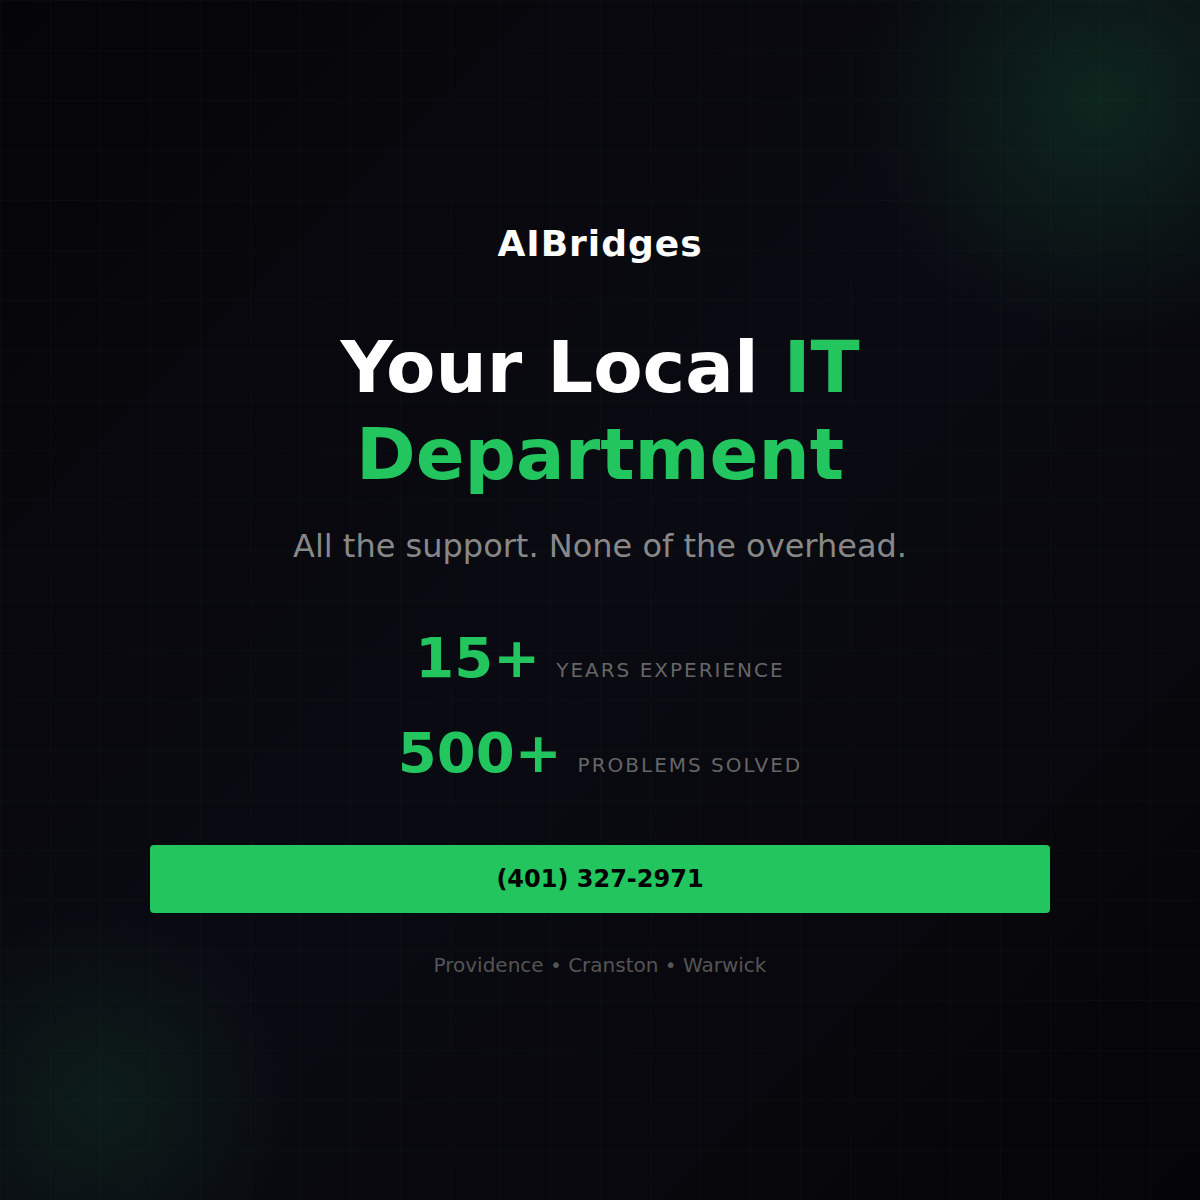
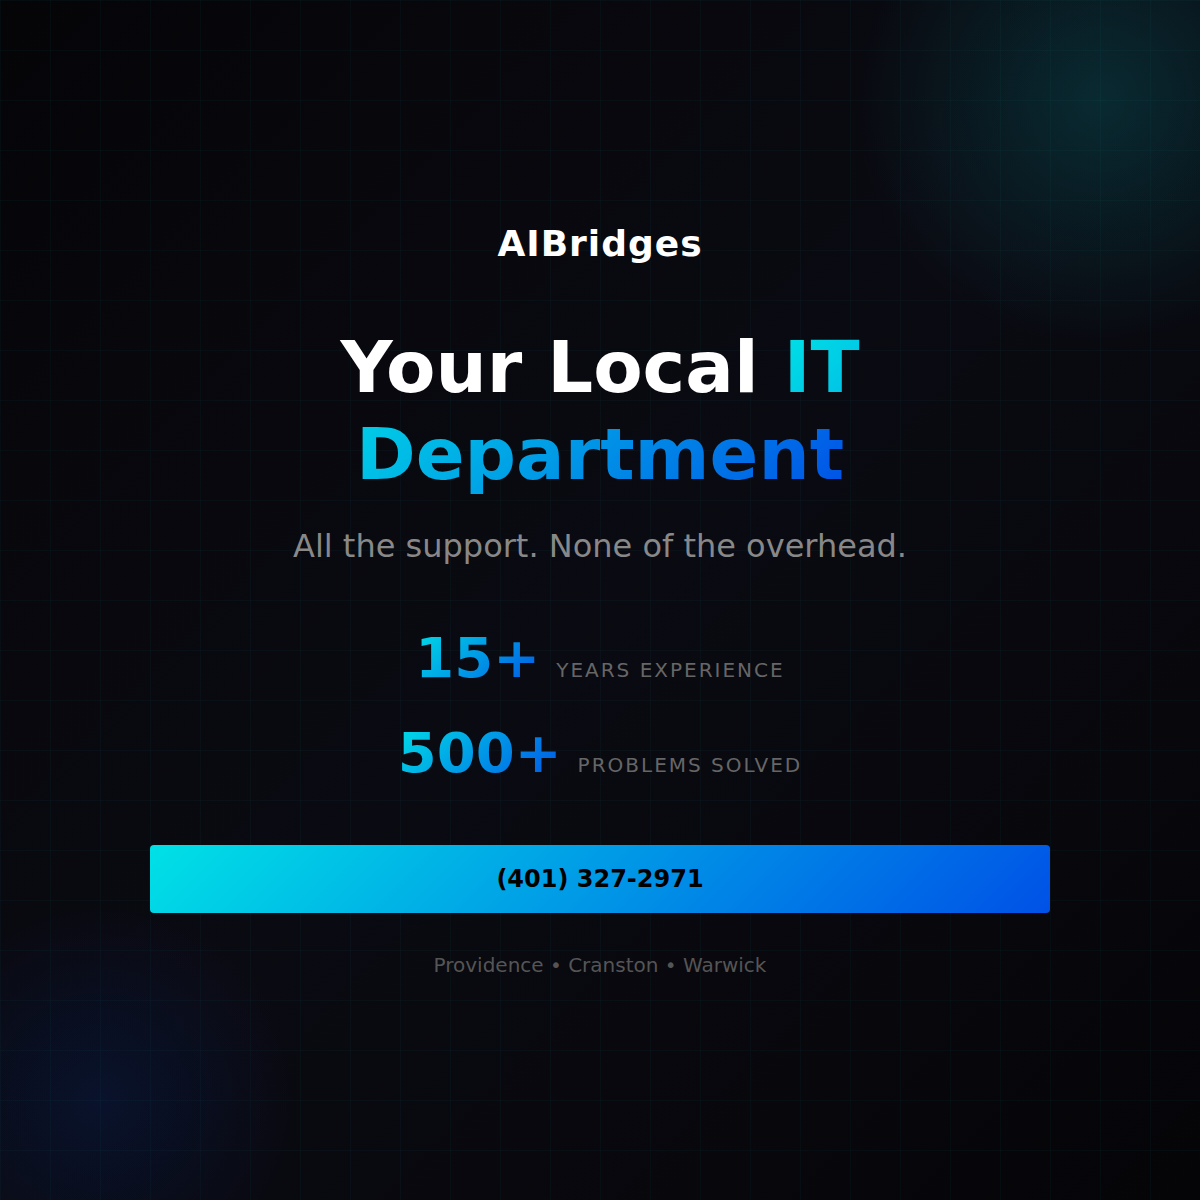
Update ad to cyan-blue gradient color scheme

Changed region(s): [[0.1233, 0.6783, 0.8942, 0.7708], [0.2775, 0.2775, 0.7092, 0.4317], [0.3392, 0.5242, 0.4625, 0.6475]]

diff --git a/ad-images/it-consulting-ad-square.html b/ad-images/it-consulting-ad-square.html
@@ -31,17 +31,17 @@
             right: 0;
             bottom: 0;
             background-image: 
-                linear-gradient(rgba(34, 197, 94, 0.03) 1px, transparent 1px),
-                linear-gradient(90deg, rgba(34, 197, 94, 0.03) 1px, transparent 1px);
+                linear-gradient(rgba(0, 225, 230, 0.03) 1px, transparent 1px),
+                linear-gradient(90deg, rgba(0, 225, 230, 0.03) 1px, transparent 1px);
             background-size: 50px 50px;
         }
         
-        /* Green accent glow */
+        /* Cyan-blue accent glow */
         .glow {
             position: absolute;
             width: 500px;
             height: 500px;
-            background: radial-gradient(circle, rgba(34, 197, 94, 0.15) 0%, transparent 70%);
+            background: radial-gradient(circle, rgba(0, 225, 230, 0.15) 0%, transparent 70%);
             top: -150px;
             right: -150px;
         }
@@ -50,7 +50,7 @@
             position: absolute;
             width: 400px;
             height: 400px;
-            background: radial-gradient(circle, rgba(34, 197, 94, 0.1) 0%, transparent 70%);
+            background: radial-gradient(circle, rgba(0, 81, 230, 0.12) 0%, transparent 70%);
             bottom: -100px;
             left: -100px;
         }
@@ -80,7 +80,10 @@
         }
         
         .headline .highlight {
-            color: #22c55e;
+            background: linear-gradient(135deg, #00E1E6, #0051E6);
+            -webkit-background-clip: text;
+            -webkit-text-fill-color: transparent;
+            background-clip: text;
         }
         
         .subhead {
@@ -107,7 +110,10 @@
         .stat-number {
             font-size: 56px;
             font-weight: 700;
-            color: #22c55e;
+            background: linear-gradient(135deg, #00E1E6, #0051E6);
+            -webkit-background-clip: text;
+            -webkit-text-fill-color: transparent;
+            background-clip: text;
         }
         
         .stat-label {
@@ -118,7 +124,7 @@
         }
         
         .cta {
-            background: #22c55e;
+            background: linear-gradient(135deg, #00E1E6, #0051E6);
             color: #000;
             padding: 20px 48px;
             font-size: 24px;
